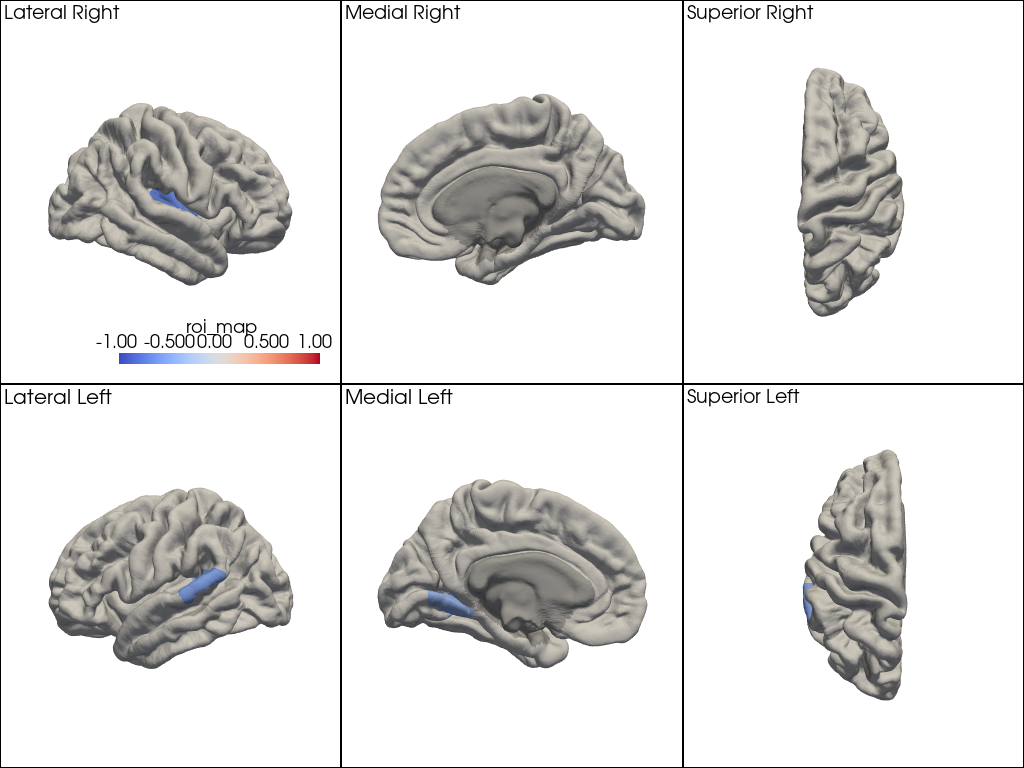
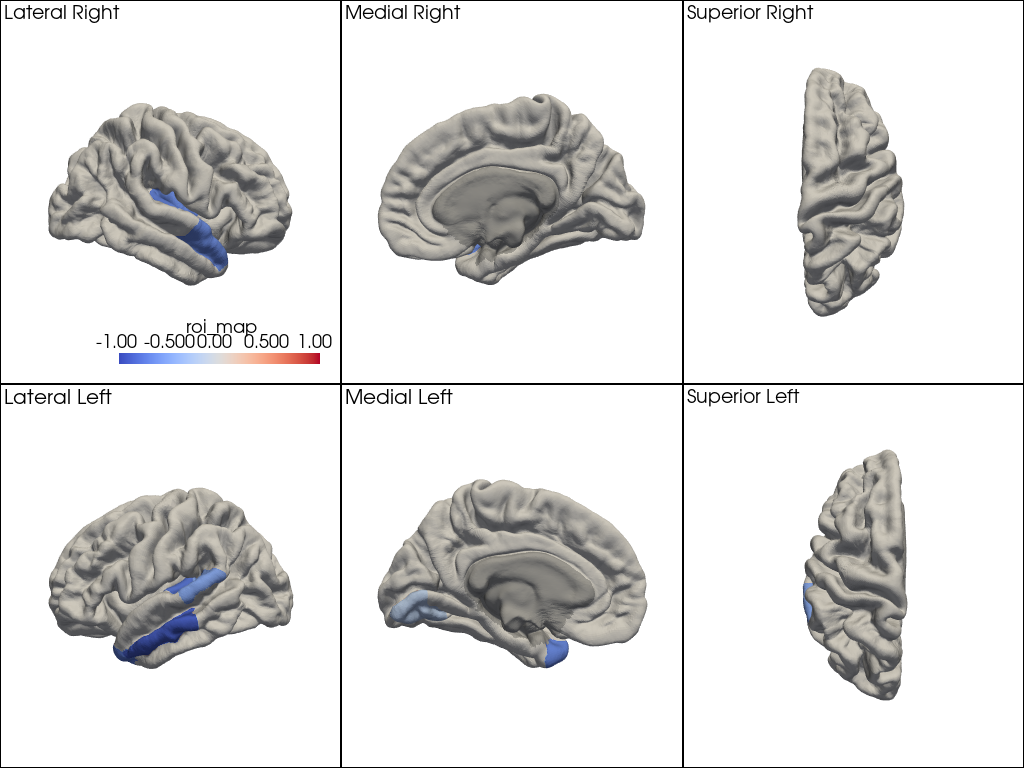
[enh] Add the possibility to load the surrogate from (Rigoni,2023)

diff --git a/lib/func_SDI.py b/lib/func_SDI.py
@@ -114,13 +114,25 @@ def load_EEG_example():
 
 
 def surrogate_sdi(scU,  Vlow, Vhigh, nbSurr=1000, example=False): 
-    ### reconstruct the data randomizing the GFT weights
-    ### calculate a randomized matrix of 1 and -1 (PHI) to generate surrogates for SDI analyses
+    X_RS_allPat = load_EEG_example()
+    SDI_surr = np.zeros((114, 19, len(X_RS_allPat)))
+    
     if example==True:
         with h5py.File('/home/localadmin/Documents/CODES/data/PHI.mat', 'r') as f:
             tmp = f['PHI'][()]
         PHI = utils.extract_ctx_ROIs(tmp)
         nbSurr = np.shape(PHI)[2]
+
+        GSP2_surr = sio.loadmat('/home/localadmin/Documents/CODES/data/results/data_GSP2_surr.mat')
+        GSP2_surr = GSP2_surr['data_GSP2_surr'][0]
+
+        for s in np.arange(np.shape(GSP2_surr)[0]):
+            sub = GSP2_surr[s][0]
+            lat = GSP2_surr[s][1]
+            surr = GSP2_surr[s][2][0][0][0]
+            idxs_ctxs = np.concatenate((np.arange(0,57), np.arange(60,117)))
+            SDI_surr[:,:,s] = surr[idxs_ctxs,:]
+
     else:
         PHI = np.zeros((np.shape(scU)[0], np.shape(scU)[0], nbSurr))
         for n in np.arange(nbSurr):
@@ -129,28 +141,24 @@ def surrogate_sdi(scU,  Vlow, Vhigh, nbSurr=1000, example=False):
             PHIdiag[np.where(PHIdiag==0)] = -1
             PHI[:,:,n] = np.diag(PHIdiag)
 
-    X_RS_allPat = load_EEG_example()
-    SDI_surr = np.zeros((114, 19, len(X_RS_allPat)))
-    for s in np.arange(len(X_RS_allPat)):
-        for n in np.arange(19):
-            X_RS = X_RS_allPat[s]['X_RS'][:114,:,:]
-            zX_RS = scipy.stats.zscore(X_RS, axis=None)
-            XrandS = np.zeros(np.shape(X_RS))
-            PHI_curr = np.squeeze(PHI[:,:,n])
-            for p in np.arange(np.shape(X_RS)[2]):
-                zX_RS_curr = scipy.stats.zscore(zX_RS[:,:,p])
-                XrandS[:,:,p] = scU@PHI_curr@np.transpose(scU)@zX_RS_curr
-                #  X_hat=M'X, normally reconstructed signal would be Xrecon=M*X_hat=MM'X, instead of M, M*PHI is V with randomized signs
-            X_c, X_d, N_c, N_d, SDI = filter_signal_with_harmonics(scU, XrandS, Vlow, Vhigh)
-            SDI_surr[:,n,s]=np.mean(N_d,1)/np.mean(N_c,1);#(np.shape(SDI_surr))
+        for s in np.arange(len(X_RS_allPat)):
+            for n in np.arange(19):
+                X_RS = X_RS_allPat[s]['X_RS'][:114,:,:]
+                zX_RS = scipy.stats.zscore(X_RS, axis=None)
+                XrandS = np.zeros(np.shape(X_RS))
+                PHI_curr = np.squeeze(PHI[:,:,n])
+                for p in np.arange(np.shape(X_RS)[2]):
+                    zX_RS_curr = scipy.stats.zscore(zX_RS[:,:,p])
+                    XrandS[:,:,p] = scU@PHI_curr@np.transpose(scU)@zX_RS_curr
+                    #  X_hat=M'X, normally reconstructed signal would be Xrecon=M*X_hat=MM'X, instead of M, M*PHI is V with randomized signs
+                X_c, X_d, N_c, N_d, SDI = filter_signal_with_harmonics(scU, XrandS, Vlow, Vhigh)
+                SDI_surr[:,n,s]=np.mean(N_d,1)/np.mean(N_c,1);#(np.shape(SDI_surr))
     
-    
-    return SDI_surr, XrandS
+    return SDI_surr
 
 
 def select_significant_sdi(SDI, SDI_surr):
     ### initiation of max and min for threshold
-    print(np.shape(SDI))
     max_SDI_surr = np.zeros((np.shape(SDI)))
     min_SDI_surr = np.copy(max_SDI_surr)
     SDI_thr_max = np.copy(min_SDI_surr); SDI_thr_min = np.copy(min_SDI_surr)
@@ -161,8 +169,6 @@ def select_significant_sdi(SDI, SDI_surr):
     mean_SDI = np.mean(SDI, axis=1)
     ### find threshold
     for s in np.arange(np.shape(SDI_surr)[2]):
-        #print(np.shape(max_SDI_surr[:,s]))
-        #print(np.shape(np.max(SDI_surr[:,:,s], axis=1)))
         max_SDI_surr[:,s] = np.max(SDI_surr[:,:,s],axis=1)
         min_SDI_surr[:,s] = np.min(SDI_surr[:,:,s],axis=1)    
         ### select significant SDI for each subject, across surrogates individual th, first screening

diff --git a/tests/test_load_preprocessed_surrogate.py b/tests/test_load_preprocessed_surrogate.py
@@ -11,7 +11,7 @@ with h5py.File('/home/localadmin/Documents/CODES/data/PHI.mat', 'r') as f:
 
 
 GSP2_surr = sio.loadmat('/home/localadmin/Documents/CODES/data/results/data_GSP2_surr.mat')
-print(GSP2_surr)
+#print(GSP2_surr)
 GSP2_surr = GSP2_surr['data_GSP2_surr'][0]
 
 for s in np.arange(np.shape(GSP2_surr)[0]):
@@ -24,3 +24,9 @@ for s in np.arange(np.shape(GSP2_surr)[0]):
     #print(np.shape(surr[0][0][0]))
     #print(np.shape(surr[0][0]))
 
+
+idxs_ctxs = np.concatenate((np.arange(0,58), np.arange(60,115)))
+print(idxs_ctxs)
+print(len(np.arange(0,57)))
+print(len(np.arange(60,117)))
+print(len(idxs_ctxs))

diff --git a/main.py b/main.py
@@ -122,7 +122,7 @@ def run_analysis(config, MatMat, EucMat, dict_df, comp_parc, nbProcs):
         SDI[proc] = SDI_tmp
 
         ### Surrogate part
-        SDI_surr[proc], XRandS = sdi.surrogate_sdi(Q_ind[proc], Vlow, Vhigh, nbSurr=20, example=False) # Generate the surrogate 
+        SDI_surr[proc] = sdi.surrogate_sdi(Q_ind[proc], Vlow, Vhigh, nbSurr=20, example=True) # Generate the surrogate 
     
         fig,ax = plt.subplots(1,2)
         for l, lat in enumerate(np.unique(ls_lat)):
